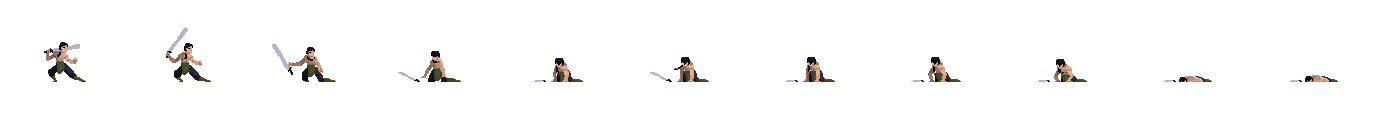
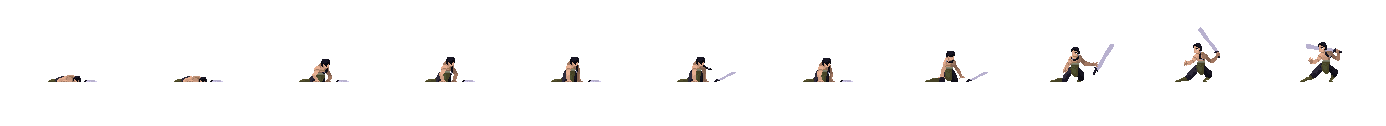
Add enemy animations

diff --git a/index.js b/index.js
@@ -84,30 +84,28 @@ const enemy = new Fighter({
     scale: 2.5,
     offset: {
         x: 150,
-        y: 105
+        y: 157
     },
-    imageSrc: './img/Ocky/Idle.png',
-    maxFrames: 4,
     sprites: {
         idle: {
-            imageSrc: 'img/Ocky/Idle.png',
-            maxFrames: 8
+            imageSrc: 'img/mazo-alt/Idle.png',
+            maxFrames: 4
         },
         run: {
-            imageSrc: 'img/Ocky/Run.png',
+            imageSrc: 'img/mazo-alt/Run.png',
             maxFrames: 8
         },
         jump: {
-            imageSrc: 'img/Ocky/Jump.png',
+            imageSrc: 'img/mazo-alt/Jump.png',
             maxFrames: 2
         },
         fall: {
-            imageSrc: 'img/Ocky/Fall.png',
+            imageSrc: 'img/mazo-alt/Fall.png',
             maxFrames: 2
         },
         attack1: {
-            imageSrc: 'img/Ocky/Attack1.png',
-            maxFrames: 4
+            imageSrc: 'img/mazo-alt/Attack1.png',
+            maxFrames: 6
         }
     }
 })
@@ -142,7 +140,7 @@ function animate() {
     background.update(); // calling to establish background image
     player.update();
     shop.update();
-    //enemy.update();
+    enemy.update();
 
     player.velocity.x = 0;  // Created a responisve and functional movement system to inputs are interpretted correctly
     enemy.velocity.x = 0;
@@ -159,20 +157,32 @@ function animate() {
         player.switchSpriteframes('idle');
     }
 
-    //Enemy Player movement
-
-    if(keys.ArrowLeft.pressed && enemy.lastKey === 'ArrowLeft') {
-        enemy.velocity.x = -5;
-    } else if (keys.ArrowRight.pressed && enemy.lastKey === 'ArrowRight') {
-        enemy.velocity.x = 5;
-    }
-
     //Animate jump movement when jumping, also when falling
     if (player.velocity.y < 0){ 
         player.switchSpriteframes('jump');
     } else if (player.velocity.y > 0) {
         player.switchSpriteframes('fall');
     }
+
+    //Enemy Player movement
+
+    if(keys.ArrowLeft.pressed && enemy.lastKey === 'ArrowLeft') {
+        enemy.velocity.x = -5;
+        enemy.switchSpriteframes('run');
+    } else if (keys.ArrowRight.pressed && enemy.lastKey === 'ArrowRight') {
+        enemy.velocity.x = 5;
+        enemy.switchSpriteframes('run');
+    } else{
+        enemy.switchSpriteframes('idle');
+    }
+
+    //Animate enemy jump movement when jumping, also when falling
+    if (enemy.velocity.y < 0){ 
+        enemy.switchSpriteframes('jump');
+    } else if (enemy.velocity.y > 0) {
+        enemy.switchSpriteframes('fall');
+    }
+    
 
     // Collison detection module -- only when attack box is overlapping enemy sprite x and y axis considered
     if(
